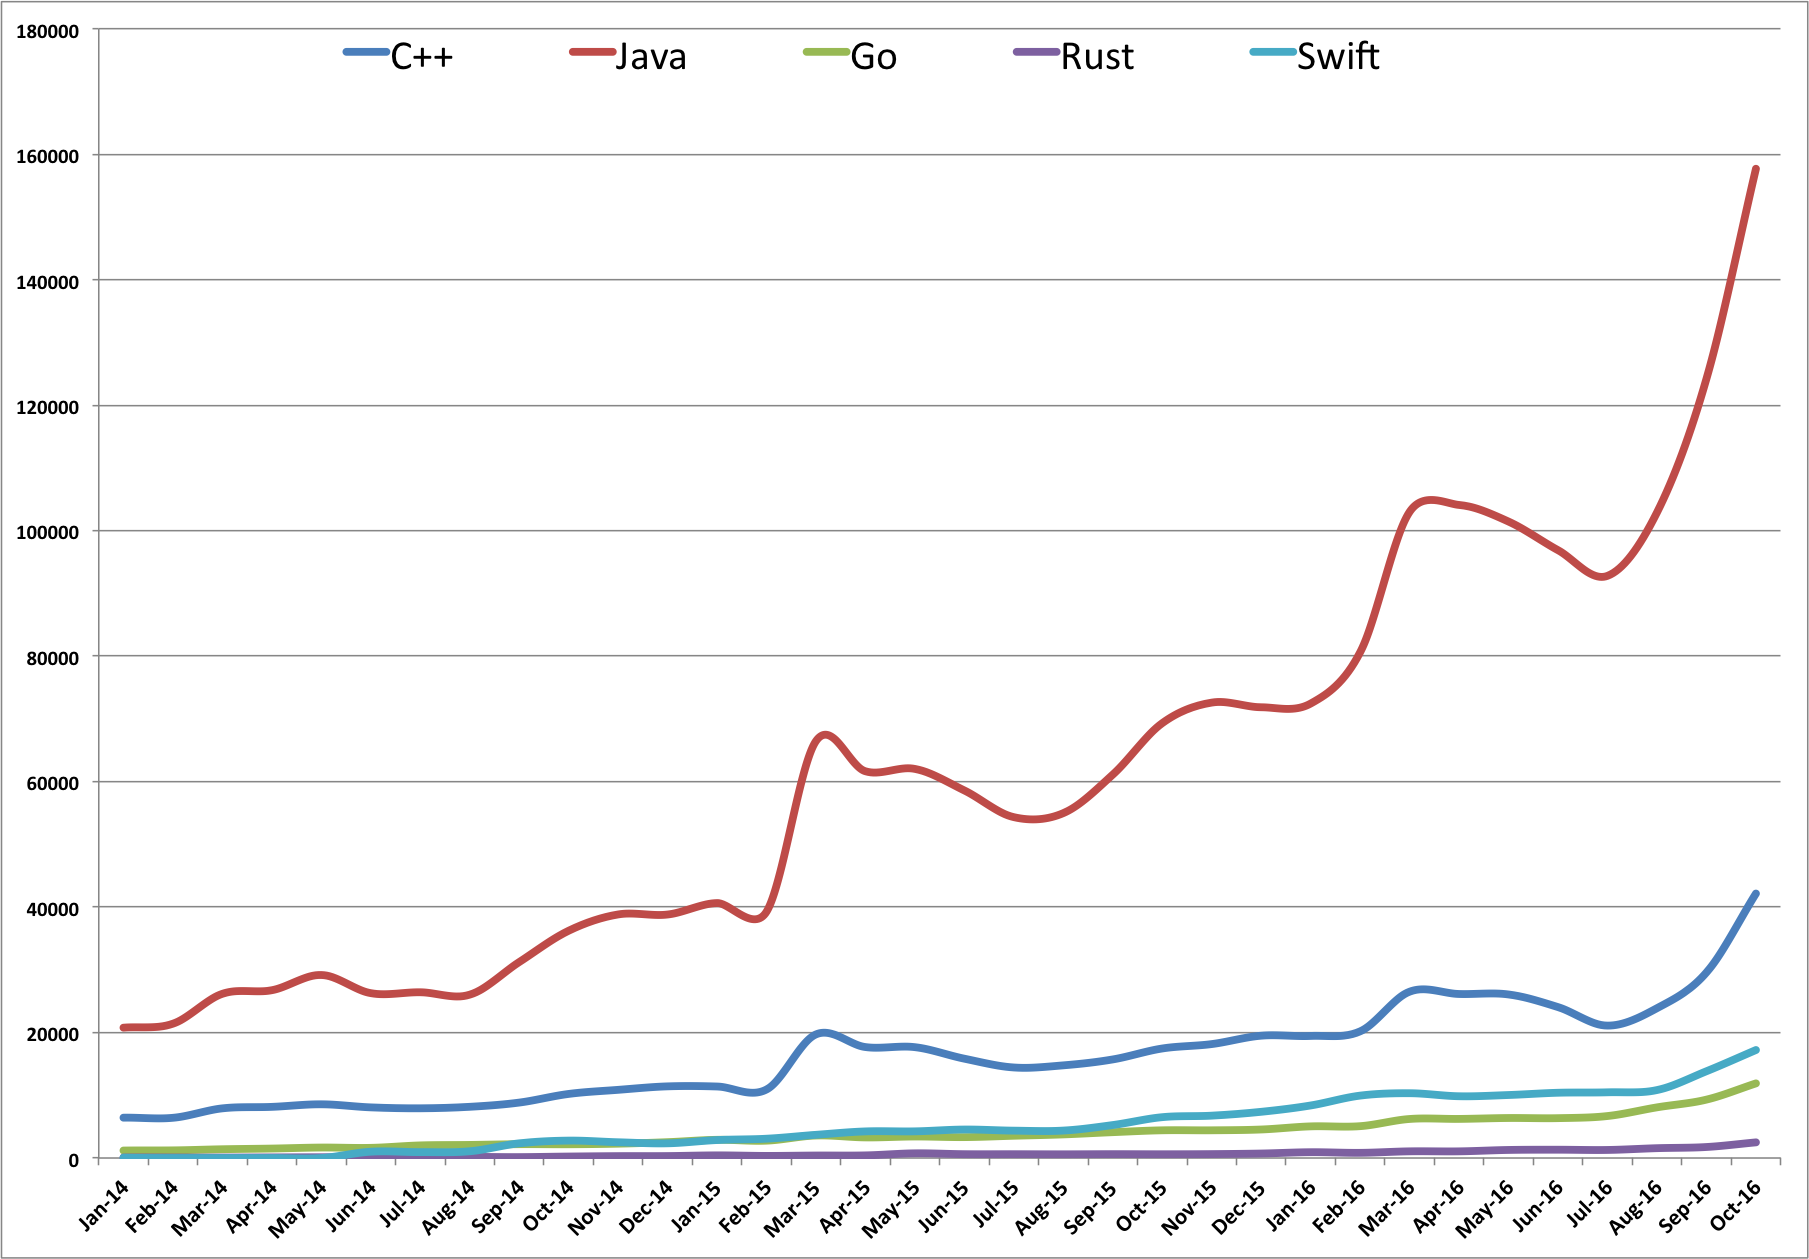
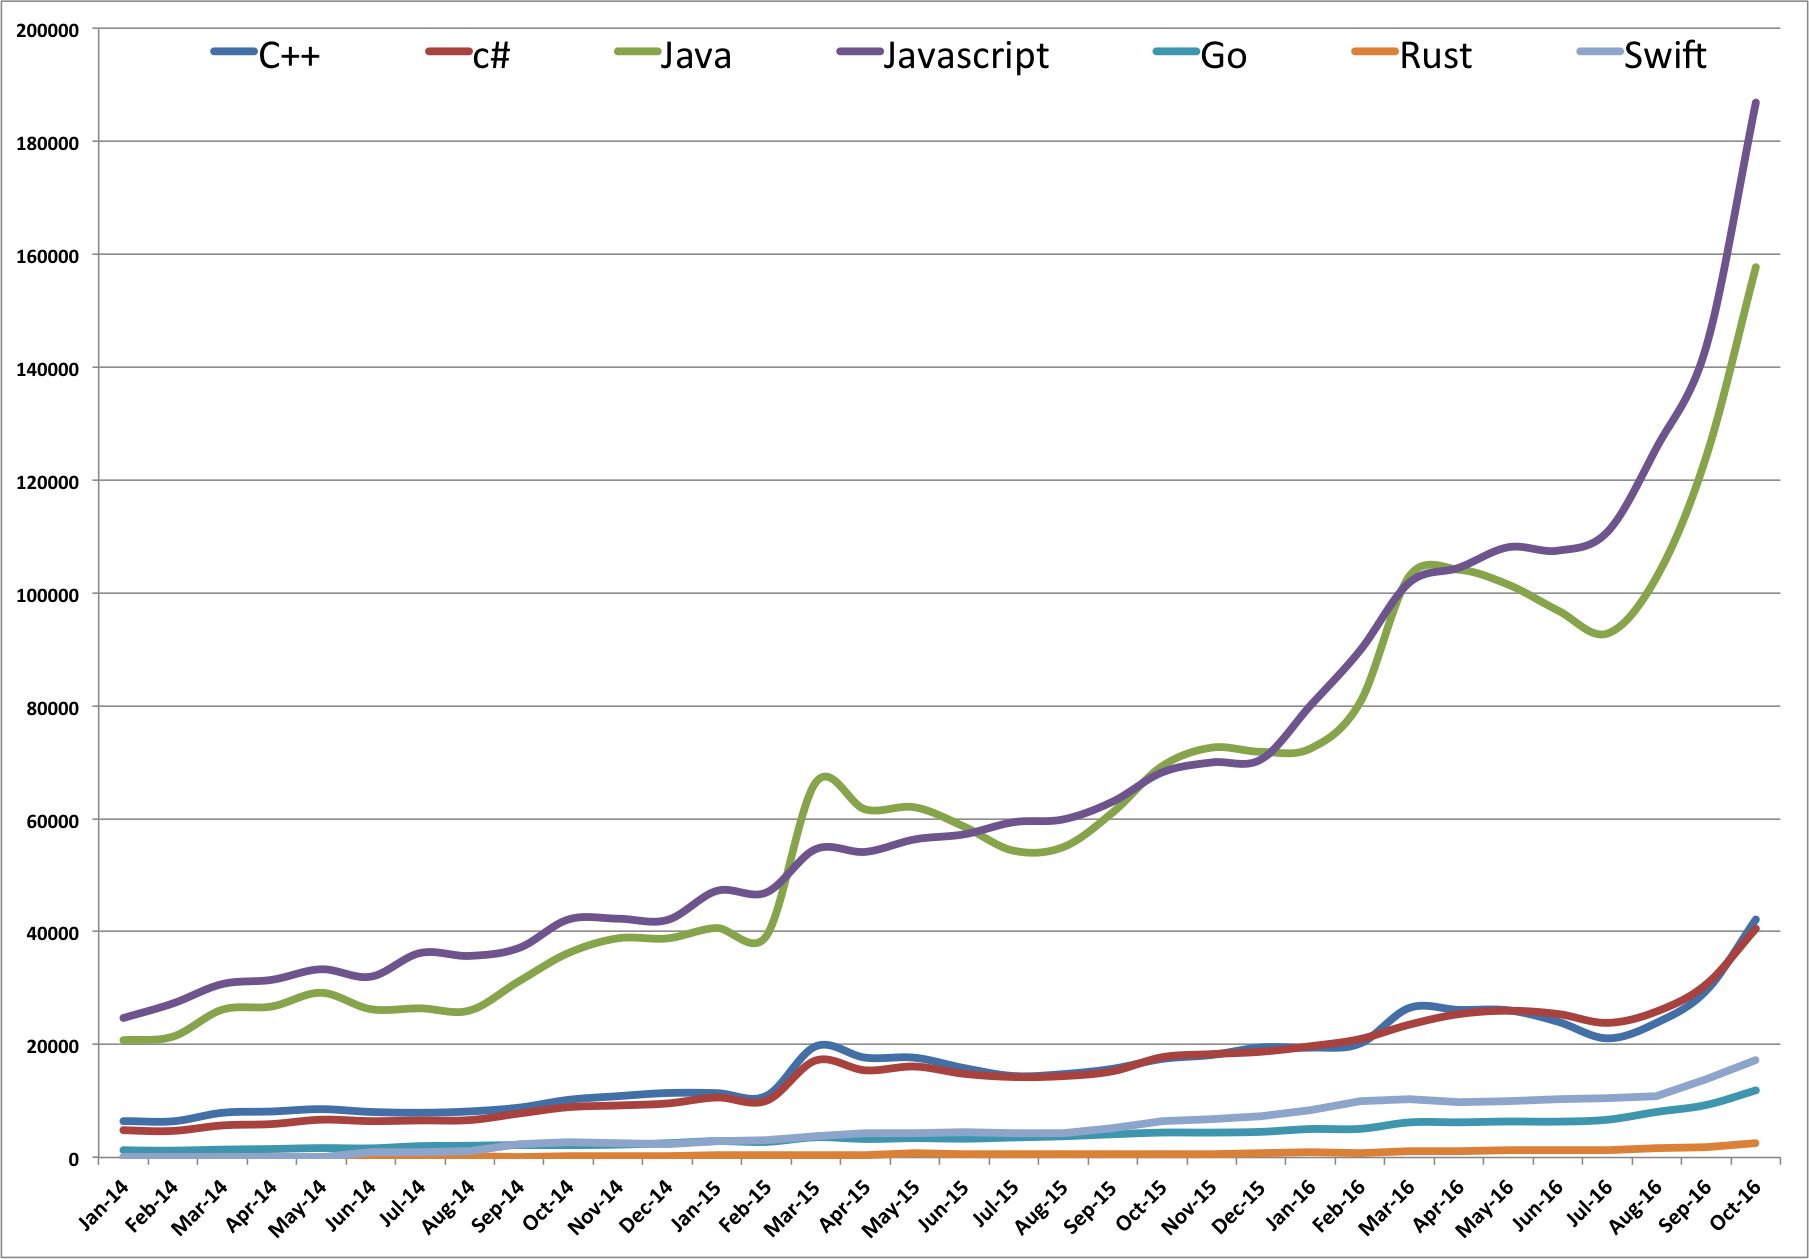
Implements #1 - Add Javascript and C#

diff --git a/main.go b/main.go
@@ -27,7 +27,7 @@ import (
 	"time"
 )
 
-var languages = []string{"C++", "Java", "Go", "Rust", "Swift"}
+var languages = []string{"C++", "C#", "Java", "Javascript", "Go", "Rust", "Swift"}
 
 func CountProjects(language string, year int, month int) (int, error) {
 
@@ -79,6 +79,7 @@ func MainHandler(w http.ResponseWriter, r *http.Request) {
 	w.WriteHeader(http.StatusOK)
 
 	for _, language := range languages {
+		var md string = language + " |"
 		fmt.Fprint(w, language)
 		for month := 1; month <= 12; month++ {
 			count, err := CountProjects(language, year, month)
@@ -87,8 +88,10 @@ func MainHandler(w http.ResponseWriter, r *http.Request) {
 				return
 			}
 			log.Printf("%04d-%02d\t%s\t%d", year, month, language, count)
+			md += " " + strconv.Itoa(count) + " |"
 			fmt.Fprintf(w, "\t%d", count)
 		}
+		log.Printf(md)
 		fmt.Fprintln(w)
 	}
 }

diff --git a/README.md b/README.md
@@ -10,33 +10,39 @@ Here are the current results from 2014 to 2016 (until october)
 
 ### 2014 statistics
 
-| Language | Jan   | Feb   | Mar   | Apr   | May   | Jun   | Jul   | Aug   | Sep   | Oct   | Nov   | Dec   |
-| :---     |  ---: |  ---: |  ---: |  ---: |  ---: |  ---: |  ---: |  ---: |  ---: |  ---: |  ---: |  ---: |
-| C++      |  6503 |  6411 |  7917 |  8154 |  8562 |  8072 |  7925 |  8163 |  8836 | 10216 | 10868 | 11422 |
-| Java     | 20766 | 21414 | 26178 | 26748 | 29169 | 26278 | 26420 | 26041 | 31238 | 36233 | 38825 | 38814 |
-| Go       |  1232 |  1221 |  1400 |  1508 |  1670 |  1623 |  2012 |  2088 |  2204 |  2190 |  2283 |  2528 |
-| Rust     |   112 |    80 |    77 |   100 |   124 |   117 |   169 |   185 |   146 |   238 |   303 |   313 |
-| Swift    |     0 |     0 |     0 |     0 |     0 |  1005 |   942 |  1077 |  2343 |  2777 |  2512 |  2344 |
+| Language   | Jan   | Feb   | Mar   | Apr   | May   | Jun   | Jul   | Aug   | Sep   | Oct   | Nov   | Dec   |
+| :---       |  ---: |  ---: |  ---: |  ---: |  ---: |  ---: |  ---: |  ---: |  ---: |  ---: |  ---: |  ---: |
+| C++        |  6503 |  6411 |  7917 |  8154 |  8562 |  8072 |  7925 |  8163 |  8836 | 10216 | 10868 | 11422 |
+| C#         |  4771 |  4713 |  5680 |  5926 |  6696 |  6445 |  6567 |  6633 |  7795 |  8916 |  9217 |  9576 |
+| Java       | 20766 | 21414 | 26178 | 26748 | 29169 | 26278 | 26420 | 26041 | 31238 | 36233 | 38825 | 38814 |
+| Javascript | 24710 | 27288 | 30718 | 31468 | 33339 | 32029 | 36225 | 35706 | 37123 | 42169 | 42299 | 42081 |
+| Go         |  1232 |  1221 |  1400 |  1508 |  1670 |  1623 |  2012 |  2088 |  2204 |  2190 |  2283 |  2528 |
+| Rust       |   112 |    80 |    77 |   100 |   124 |   117 |   169 |   185 |   146 |   238 |   303 |   313 |
+| Swift      |     0 |     0 |     0 |     0 |     0 |  1005 |   942 |  1077 |  2343 |  2777 |  2512 |  2344 |
 
 ### 2015 statistics
 
-| Language | Jan   | Feb   | Mar   | Apr   | May   | Jun   | Jul   | Aug   | Sep   | Oct   | Nov   | Dec   |
-| :---     |  ---: |  ---: |  ---: |  ---: |  ---: |  ---: |  ---: |  ---: |  ---: |  ---: |  ---: |  ---: |
-| C++      | 11397 | 10929 | 19709 | 17684 | 17667 | 15829 | 14431 | 14771 | 15716 | 17459 | 18162 | 19497 |
-| Java     | 40639 | 39273 | 66473 | 61641 | 62018 | 58580 | 54329 | 54980 | 61126 | 69324 | 72593 | 71850 |
-| Go       |  2903 |  2767 |  3586 |  3283 |  3427 |  3331 |  3546 |  3762 |  4118 |  4417 |  4418 |  4547 |
-| Rust     |   423 |   336 |   399 |   421 |   747 |   612 |   609 |   592 |   616 |   600 |   625 |   717 |
-| Swift    |  2864 |  3079 |  3699 |  4242 |  4252 |  4542 |  4362 |  4376 |  5256 |  6511 |  6753 |  7366 |
+| Language   | Jan   | Feb   | Mar   | Apr   | May   | Jun   | Jul   | Aug   | Sep   | Oct   | Nov   | Dec   |
+| :---       |  ---: |  ---: |  ---: |  ---: |  ---: |  ---: |  ---: |  ---: |  ---: |  ---: |  ---: |  ---: |
+| C++        | 11397 | 10929 | 19709 | 17684 | 17667 | 15829 | 14431 | 14771 | 15716 | 17459 | 18162 | 19497 |
+| C#         | 10627 | 10058 | 17199 | 15441 | 16112 | 14822 | 14257 | 14418 | 15281 | 17759 | 18313 | 18731 |
+| Java       | 40639 | 39273 | 66473 | 61641 | 62018 | 58580 | 54329 | 54980 | 61126 | 69324 | 72593 | 71850 |
+| Javascript | 47234 | 46948 | 54630 | 54132 | 56344 | 57247 | 59390 | 59881 | 63032 | 68212 | 69975 | 70520 |
+| Go         |  2903 |  2767 |  3586 |  3283 |  3427 |  3331 |  3546 |  3762 |  4118 |  4417 |  4418 |  4547 |
+| Rust       |   423 |   336 |   399 |   421 |   747 |   612 |   609 |   592 |   616 |   600 |   625 |   717 |
+| Swift      |  2864 |  3079 |  3699 |  4242 |  4252 |  4542 |  4362 |  4376 |  5256 |  6511 |  6753 |  7366 |
 
 ### 2016 statistics
 
-| Language | Jan   | Feb   | Mar    | Apr    | May    | Jun   | Jul   | Aug    | Sep    | Oct    | Nov   | Dec   |
-| :---     |  ---: |  ---: |   ---: |   ---: |   ---: |  ---: |  ---: |   ---: |   ---: |   ---: |  ---: |  ---: |
-| C++      | 19457 | 20193 |  26515 |  26144 |  26067 | 24053 | 21107 |  23883 |  29582 |  42153 |       |       |
-| Java     | 72445 | 80629 | 103005 | 104095 | 101442 | 96881 | 92797 | 102902 | 124221 | 157682 |       |       |
-| Go       |  5044 |  5077 |   6222 |   6233 |   6377 |  6354 |  6692 |   8076 |   9309 |  11895 |       |       |
-| Rust     |   925 |   826 |   1065 |   1063 |   1285 |  1323 |  1285 |   1568 |   1755 |   2495 |       |       |
-| Swift    |  8377 |  9948 |  10328 |   9846 |  10042 | 10403 | 10474 |  10832 |  13832 |  13832 |       |       |
+| Language   | Jan   | Feb   | Mar    | Apr    | May    | Jun    | Jul    | Aug    | Sep    | Oct    | Nov    | Dec    |
+| :---       |  ---: |  ---: |   ---: |   ---: |   ---: |   ---: |   ---: |   ---: |   ---: |   ---: |   ---: |   ---: |
+| C++        | 19457 | 20193 |  26515 |  26144 |  26067 |  24053 |  21107 |  23883 |  29582 |  42153 |        |        |
+| C#         | 19708 | 20986 |  23545 |  25404 |  25997 |  25417 |  23844 |  25884 |  30700 |  40536 |        |        |
+| Java       | 72445 | 80629 | 103005 | 104095 | 101442 |  96881 |  92797 | 102902 | 124221 | 157682 |        |        |
+| Javascript | 80083 | 89816 | 101852 | 104463 | 108099 | 107482 | 110806 | 125817 | 143704 | 186834 |        |        |
+| Go         |  5044 |  5077 |   6222 |   6233 |   6377 |   6354 |   6692 |   8076 |   9309 |  11895 |        |        |
+| Rust       |   925 |   826 |   1065 |   1063 |   1285 |   1323 |   1285 |   1568 |   1755 |   2495 |        |        |
+| Swift      |  8377 |  9948 |  10328 |   9846 |  10042 |  10403 |  10474 |  10832 |  13832 |  13832 |        |        |
 
 ## The Go program
 
